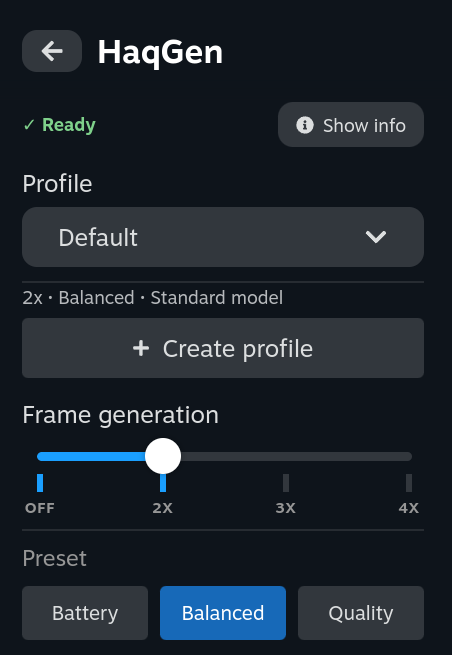
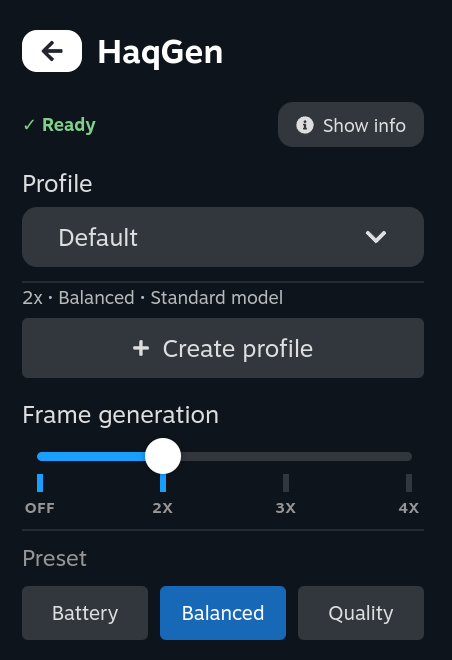
Update the README screenshots and show the engine choice

diff --git a/README.md b/README.md
@@ -6,7 +6,7 @@ Lossless Scaling frame generation for the Steam Deck, installed and managed from
 
 HaqGen is a [Decky Loader](https://decky.xyz) plugin built on [lsfg-vk](https://lsfg-vk.dev), the Linux implementation of Lossless Scaling's frame generation. It handles installation and configuration, provides a single launch option for all games, and offers simple controls while keeping the technical settings available.
 
-<img src="assets/screenshot-main.png" width="300" alt="HaqGen main controls"> <img src="assets/screenshot-advanced.png" width="300" alt="HaqGen advanced settings and troubleshooting">
+<img src="assets/screenshot-main.png" width="260" alt="HaqGen main controls"> <img src="assets/screenshot-engine.png" width="260" alt="HaqGen presets, engine choice and FPS cap"> <img src="assets/screenshot-advanced.png" width="260" alt="HaqGen advanced settings and troubleshooting">
 
 **Status:** early release (v0.1), tested on a Steam Deck OLED. Bug reports and feedback are welcome in [Issues](https://github.com/Enotherms/HaqGen/issues).
 
